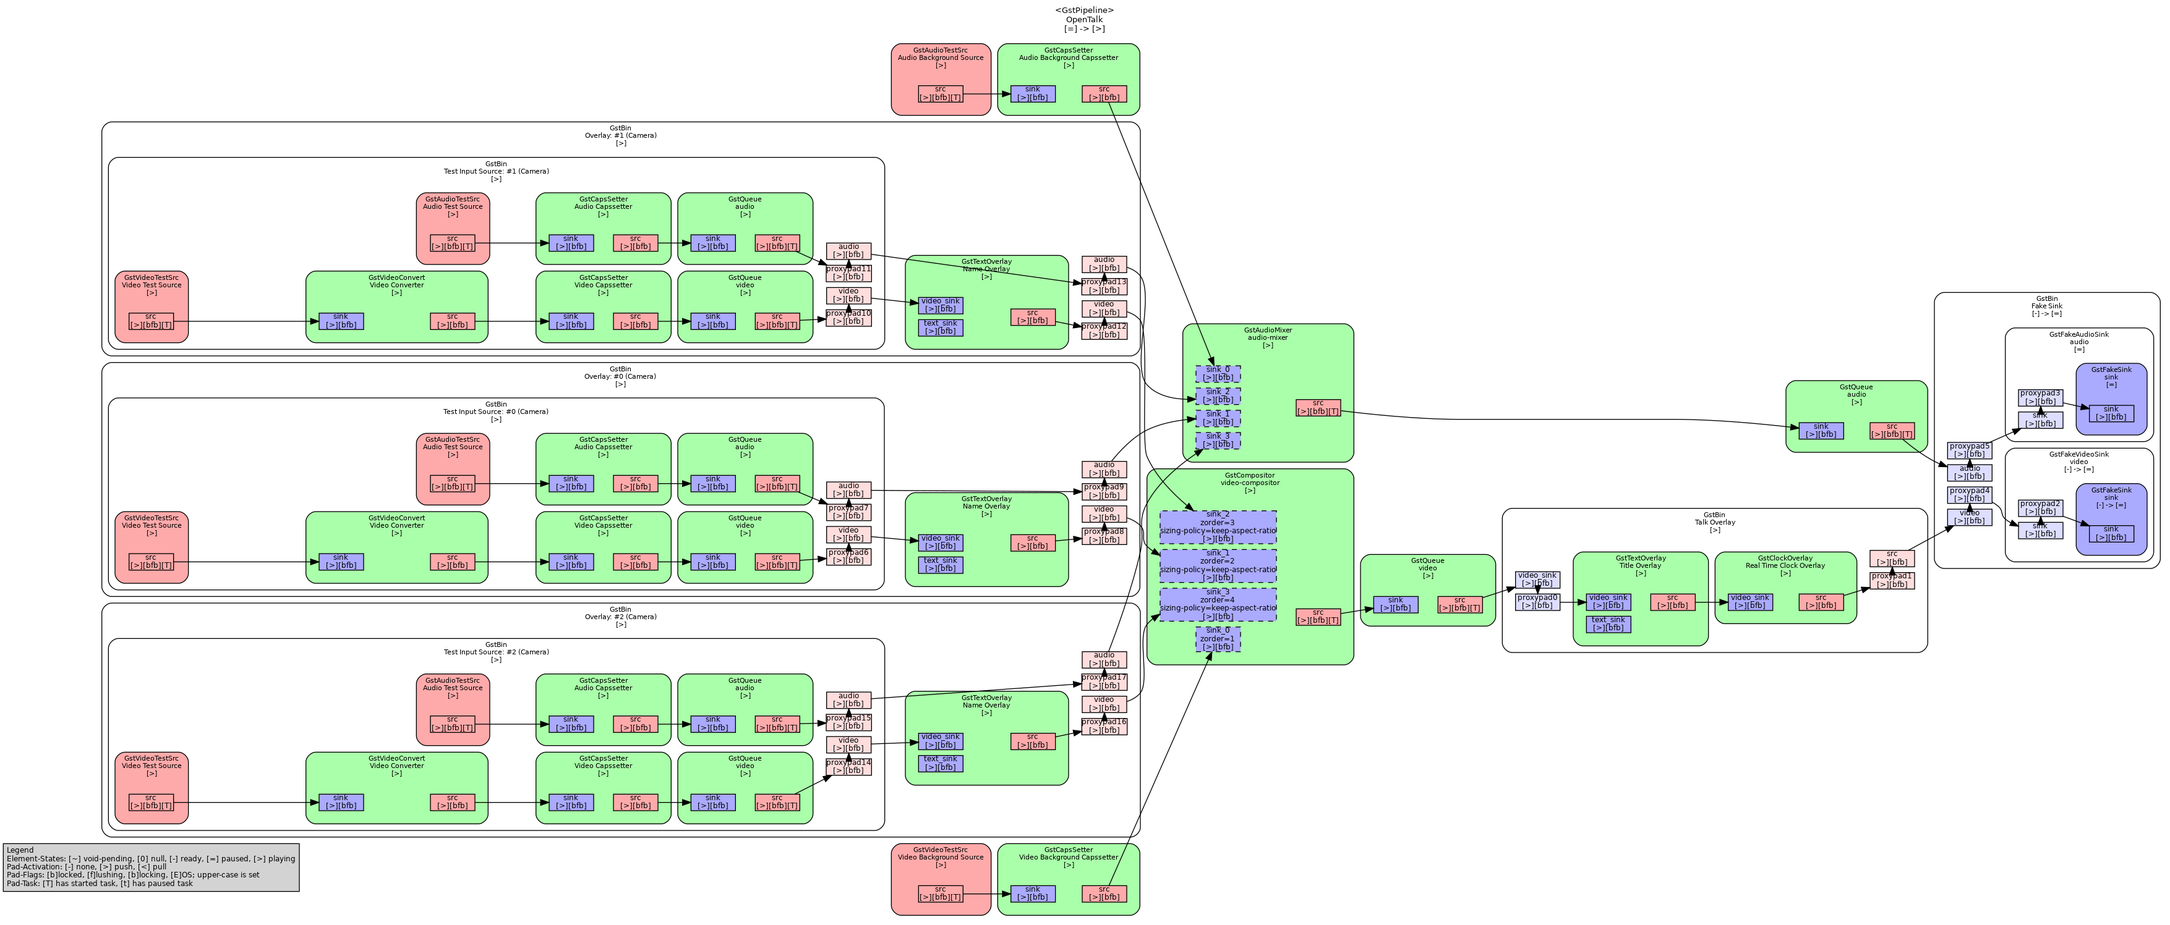
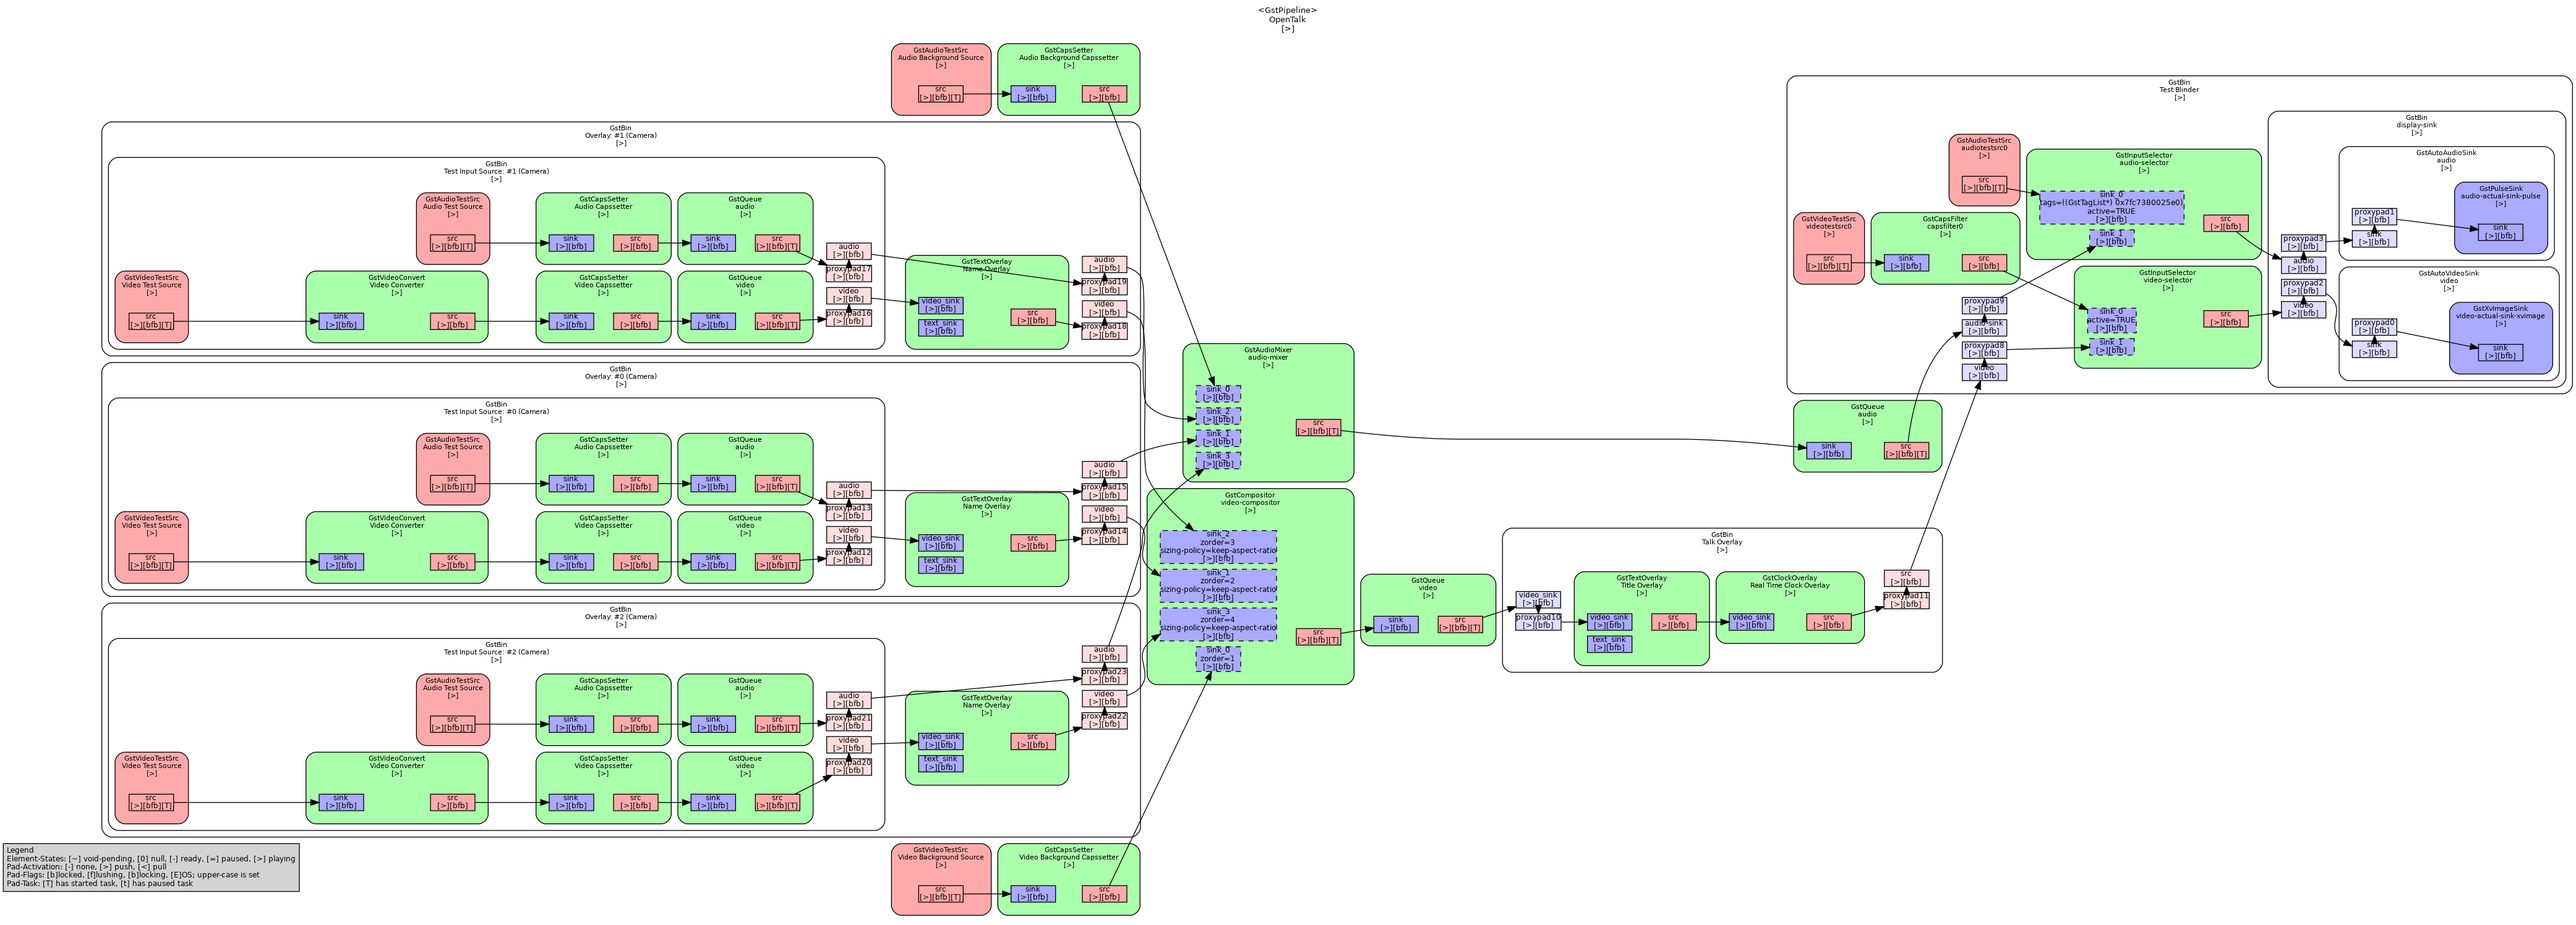
add BlinderSink module

Changed region(s): [[0.0, 0.0922, 1.0, 1.0], [0.3417, 0.0, 0.5281, 0.1536], [0.2174, 0.1229, 0.2485, 0.1536]]

diff --git a/compositor/src/output_sinks/blinder_sink.rs b/compositor/src/output_sinks/blinder_sink.rs
@@ -1,0 +1,158 @@
+use gst_base::prelude::*;
+
+use crate::*;
+
+/// Trait to use blinders
+/// @TODO: move out of this file if more blinders exist
+pub trait Blinder {
+    /// set blinder on or off
+    fn blind(&self, blind: bool);
+}
+
+/// Parameters of BlinderSink
+#[allow(dead_code)]
+pub struct TestBlinderParams {
+    pub name: &'static str,
+    pub resolution: Size,
+    pub sink: Box<dyn Sink>,
+    pub alt_source_params: TestSourceParameters,
+}
+
+impl Default for TestBlinderParams {
+    fn default() -> Self {
+        Self {
+            name: Default::default(),
+            resolution: Default::default(),
+            sink: Box::new(FakeSink::new()),
+            alt_source_params: Default::default(),
+        }
+    }
+}
+
+/// Blinder which selects between two sources - one original and an alternative.
+#[derive(Debug, Clone)]
+pub struct TestBlinder {
+    video: gst::GhostPad,
+    video_selector: gst::Element,
+    video_signal_sink: gst::Pad,
+    video_blind_sink: gst::Pad,
+    audio: gst::GhostPad,
+    audio_selector: gst::Element,
+    audio_signal_sink: gst::Pad,
+    audio_blind_sink: gst::Pad,
+    bin: gst::Bin,
+}
+
+impl Blinder for TestBlinder {
+    fn blind(&self, blind: bool) {
+        if blind {
+            self.video_selector
+                .set_property("active-pad", self.video_blind_sink.clone());
+            self.audio_selector
+                .set_property("active-pad", self.audio_blind_sink.clone());
+        } else {
+            self.video_selector
+                .set_property("active-pad", self.video_signal_sink.clone());
+            self.audio_selector
+                .set_property("active-pad", self.audio_signal_sink.clone());
+        }
+    }
+}
+
+impl Sink for TestBlinder {
+    fn bin(&self) -> gst::Bin {
+        self.bin.clone()
+    }
+
+    fn video(&self) -> gst::GhostPad {
+        self.video.clone()
+    }
+
+    fn audio(&self) -> gst::GhostPad {
+        self.audio.clone()
+    }
+}
+
+impl TestBlinder {
+    /// Create new blinder sink.
+    pub fn new(params: TestBlinderParams) -> Self {
+        // check if resolution has been set
+        assert_ne!(params.resolution, Default::default());
+
+        let bin = gst::parse_bin_from_description(
+            &format!(
+                r#"
+            name="Test Blinder"
+
+            videotestsrc
+                pattern=black
+            ! video/x-raw,width={width},height={height}
+            ! input-selector
+                name=video-selector
+            
+            audiotestsrc
+                volume=0.0
+            ! input-selector
+                name=audio-selector
+            "#,
+                width = params.resolution.width,
+                height = params.resolution.height
+            ),
+            false,
+        )
+        .expect("could not create blinder bin");
+
+        bin.add(&params.sink.bin())
+            .expect("could not add target sink to bin");
+
+        let video_selector = bin
+            .by_name("video-selector")
+            .expect("can not file video input selector");
+        let video_blind_sink = video_selector
+            .static_pad("sink_0")
+            .expect("could not get video selector blind sink");
+        let video_signal_sink = video_selector
+            .request_pad_simple("sink_%u")
+            .expect("could not get sink at video input selector");
+        let video = gst::GhostPad::with_target(Some("video"), &video_signal_sink)
+            .expect("failed to create video ghost pad for participant overlay sink");
+        bin.add_pad(&video)
+            .expect("failed to add video ghost pad to participant overlay bin");
+        video_selector
+            .static_pad("src")
+            .expect("could not get src pad from video input selector")
+            .link(&params.sink.video())
+            .expect("failed to link video selector with target sink");
+
+        let audio_selector = bin
+            .by_name("audio-selector")
+            .expect("can not file audio input selector");
+        let audio_blind_sink = audio_selector
+            .static_pad("sink_0")
+            .expect("could not get audio selector blind sink");
+        let audio_signal_sink = audio_selector
+            .request_pad_simple("sink_%u")
+            .expect("could not get sink at audio input selector");
+        let audio = gst::GhostPad::with_target(Some("audio-sink"), &audio_signal_sink)
+            .expect("failed to create audio ghost pad for blinder overlay sink");
+        bin.add_pad(&audio)
+            .expect("failed to add audio ghost pad to blinder overlay bin");
+        audio_selector
+            .static_pad("src")
+            .expect("could not get src pad from audio input selector")
+            .link(&params.sink.audio())
+            .expect("failed to link audio selector with target sink");
+
+        Self {
+            video,
+            video_selector,
+            video_blind_sink,
+            video_signal_sink,
+            audio,
+            audio_selector,
+            audio_blind_sink,
+            audio_signal_sink,
+            bin,
+        }
+    }
+}

diff --git a/compositor/src/tests/generate_example_pipeline_picture.rs b/compositor/src/tests/generate_example_pipeline_picture.rs
@@ -1,6 +1,7 @@
 use crate::*;
 
 const IMAGE_OUTPUT_PATH: &str = "./images";
+const DOT_PATH: &str = "pipelines";
 
 /// generate an example of a usual pipeline
 #[test]
@@ -9,6 +10,7 @@ fn generate_example_pipeline_picture() {
     let _ = env_logger::try_init();
 
     // initialize GStreamer
+    std::env::set_var("GST_DEBUG_DUMP_DOT_DIR", DOT_PATH);
     gst::init().unwrap();
 
     let dp = &debug::Params {
@@ -17,8 +19,16 @@ fn generate_example_pipeline_picture() {
     };
 
     // setup mixer
-    let mut talk =
-        Talk::<TestSource, u32>::new(testing::RESOLUTION, testing::TestSink::new(), None).unwrap();
+    let mut talk = Talk::<TestSource, u32>::new(
+        testing::RESOLUTION,
+        TestBlinder::new(TestBlinderParams {
+            sink: Box::new(testing::TestSink::new()),
+            resolution: testing::RESOLUTION,
+            ..Default::default()
+        }),
+        None,
+    )
+    .unwrap();
     // generate pipeline DOT graph of the empty pipeline
     talk.dot("0_init", dp);
 
@@ -54,9 +64,7 @@ fn generate_example_pipeline_picture() {
 
 /// check whether the generated PNG equals the old one before overwriting it
 fn convert(name: &str) {
-    let dot_path = "pipelines";
-    std::env::set_var("GST_DEBUG_DUMP_DOT_DIR", dot_path);
-    let dot = &format!("{dot_path}/{name}.dot");
+    let dot = &format!("{DOT_PATH}/{name}.dot");
     let intermediate = &format!("{IMAGE_OUTPUT_PATH}/{name}.new.png");
     let png = &format!("{IMAGE_OUTPUT_PATH}/{name}.png");
     std::fs::create_dir_all(IMAGE_OUTPUT_PATH).expect("can not create dir from IMAGE_OUTPUT_PATH");

diff --git a/compositor/src/mixer/mod.rs b/compositor/src/mixer/mod.rs
@@ -106,19 +106,19 @@ where
     ///
     /// # Arguments
     ///
-    /// - `resolution`: Output video resolution.
+    /// - `output_resolution`: Output video resolution.
     /// - `overlay`: List of overlays to attach behind the compositor
     /// - `sink_params`: Output sink apramaters.
     ///
-    pub fn new(resolution: Size, overlay: AnyOverlay, sink: impl Sink) -> Result<Self> {
-        trace!("new( {resolution:?} )");
+    pub fn new(output_resolution: Size, overlay: AnyOverlay, sink: impl Sink) -> Result<Self> {
+        trace!("new( {output_resolution:?} )");
 
         // get width/height
-        let width = resolution.width;
-        let height = resolution.height;
+        let width = output_resolution.width;
+        let height = output_resolution.height;
         debug!(
             "New mixer output video ratio: {:.2} (= {width}/{height})",
-            resolution.ratio()
+            output_resolution.ratio()
         );
 
         // create new GStreamer pipeline
@@ -213,7 +213,7 @@ where
             streams: HashMap::new(),
             overlay,
             output: Box::new(sink),
-            output_resolution: resolution,
+            output_resolution,
             is_reading_bus: None,
             valid: Arc::new((Mutex::new(false), Condvar::new())),
             expect_eos: Arc::new(AtomicBool::new(false)),

diff --git a/compositor/src/tests/blinder.rs b/compositor/src/tests/blinder.rs
@@ -1,0 +1,37 @@
+use crate::*;
+
+#[test]
+fn test_blinder() {
+    // initialize for testing
+    testing::init();
+
+    let blinder = TestBlinder::new(TestBlinderParams {
+        sink: Box::new(testing::TestSink::new()),
+        resolution: testing::RESOLUTION,
+        ..Default::default()
+    });
+    let mut talk =
+        Talk::<TestSource, u32>::new(testing::RESOLUTION, blinder.clone(), None).unwrap();
+
+    testing::generate_streams(&mut talk, 8, 5);
+    talk.set_speaker(Some(0), &Default::default()).unwrap();
+    talk.layout::<Grid>().unwrap();
+    blinder.blind(false);
+
+    talk.set_title("not blinded");
+    talk.dot("test_blinder-not_blinded", testing::DOT_PARAMS);
+    testing::wait();
+
+    blinder.blind(true);
+
+    talk.set_title("blinded");
+    talk.dot("test_blinder-blinded", testing::DOT_PARAMS);
+    testing::wait();
+
+    blinder.blind(false);
+
+    talk.set_title("not blinded");
+    talk.dot("test_blinder-not_blinded", testing::DOT_PARAMS);
+    testing::wait();
+    talk.set_title("shutdown");
+}

diff --git a/compositor/src/lib.rs b/compositor/src/lib.rs
@@ -30,6 +30,8 @@
       writes the output into a MPEG4 file.
     - [MatroskaSink]
       listens on a TCP port to write the raw output to, after someone connects.
+    - [TestBlinder]
+      blinds it's input with an alternative input (currently test source)
 
     # Layouts
 
@@ -64,6 +66,8 @@
       is a trait which the mixer is assuming for display layout of the recording
     - [Overlay]
       is a trait for overlays.
+    - [Blinder]
+      gives access to a blinder sink.
 
     # Testing
 

diff --git a/src/recorder.rs b/src/recorder.rs
@@ -155,7 +155,7 @@ impl RecordingSession {
         let talk = match sink_setting {
             Some("display") => Talk::new(
                 compositor::Size::FHD,
-                DisplaySink::new(),
+                DisplaySink::default(),
                 Some(MAX_VISIBLES),
             ),
 

diff --git a/compositor/src/mixer/talk.rs b/compositor/src/mixer/talk.rs
@@ -562,3 +562,9 @@ pub enum SpeakerSwitchMode {
     /// If the maximum of visibles is reached and< speaker was not visible before the last visible will be shifted out.
     FirstSwap,
 }
+
+impl Default for SpeakerSwitchMode {
+    fn default() -> Self {
+        Self::FirstShift
+    }
+}

diff --git a/compositor/src/overlays/talk_overlay.rs b/compositor/src/overlays/talk_overlay.rs
@@ -25,7 +25,6 @@ impl Overlay for TalkOverlay {
     fn element(&self) -> &gst::Element {
         self.bin.as_ref()
     }
-
     fn show(&self, show: bool) {
         self.text_overlay.show(show);
         self.clock_overlay.show(show);

diff --git a/compositor/src/layout/mod.rs b/compositor/src/layout/mod.rs
@@ -22,7 +22,7 @@ pub struct Position {
 }
 
 /// Cartesian pixel dimension
-#[derive(Clone, Copy, Debug, Default)]
+#[derive(Clone, Copy, Debug, Default, PartialEq)]
 pub struct Size {
     /// horizontal dimension
     pub width: usize,

diff --git a/compositor/src/output_sinks/mod.rs b/compositor/src/output_sinks/mod.rs
@@ -1,9 +1,11 @@
+mod blinder_sink;
 mod dash_sink;
 mod display_sink;
 mod fake_sink;
 mod matroska_sink;
 mod mp4_sink;
 
+pub use blinder_sink::*;
 pub use dash_sink::*;
 pub use display_sink::*;
 pub use fake_sink::*;

diff --git a/compositor/src/overlays/mod.rs b/compositor/src/overlays/mod.rs
@@ -1,5 +1,4 @@
 //! Overlays module.
-
 mod clock_overlay;
 mod talk_overlay;
 mod text_overlay;

diff --git a/compositor/src/tests/mod.rs b/compositor/src/tests/mod.rs
@@ -1,3 +1,4 @@
+mod blinder;
 mod dash;
 mod generate_example_pipeline_picture;
 mod matroska;
